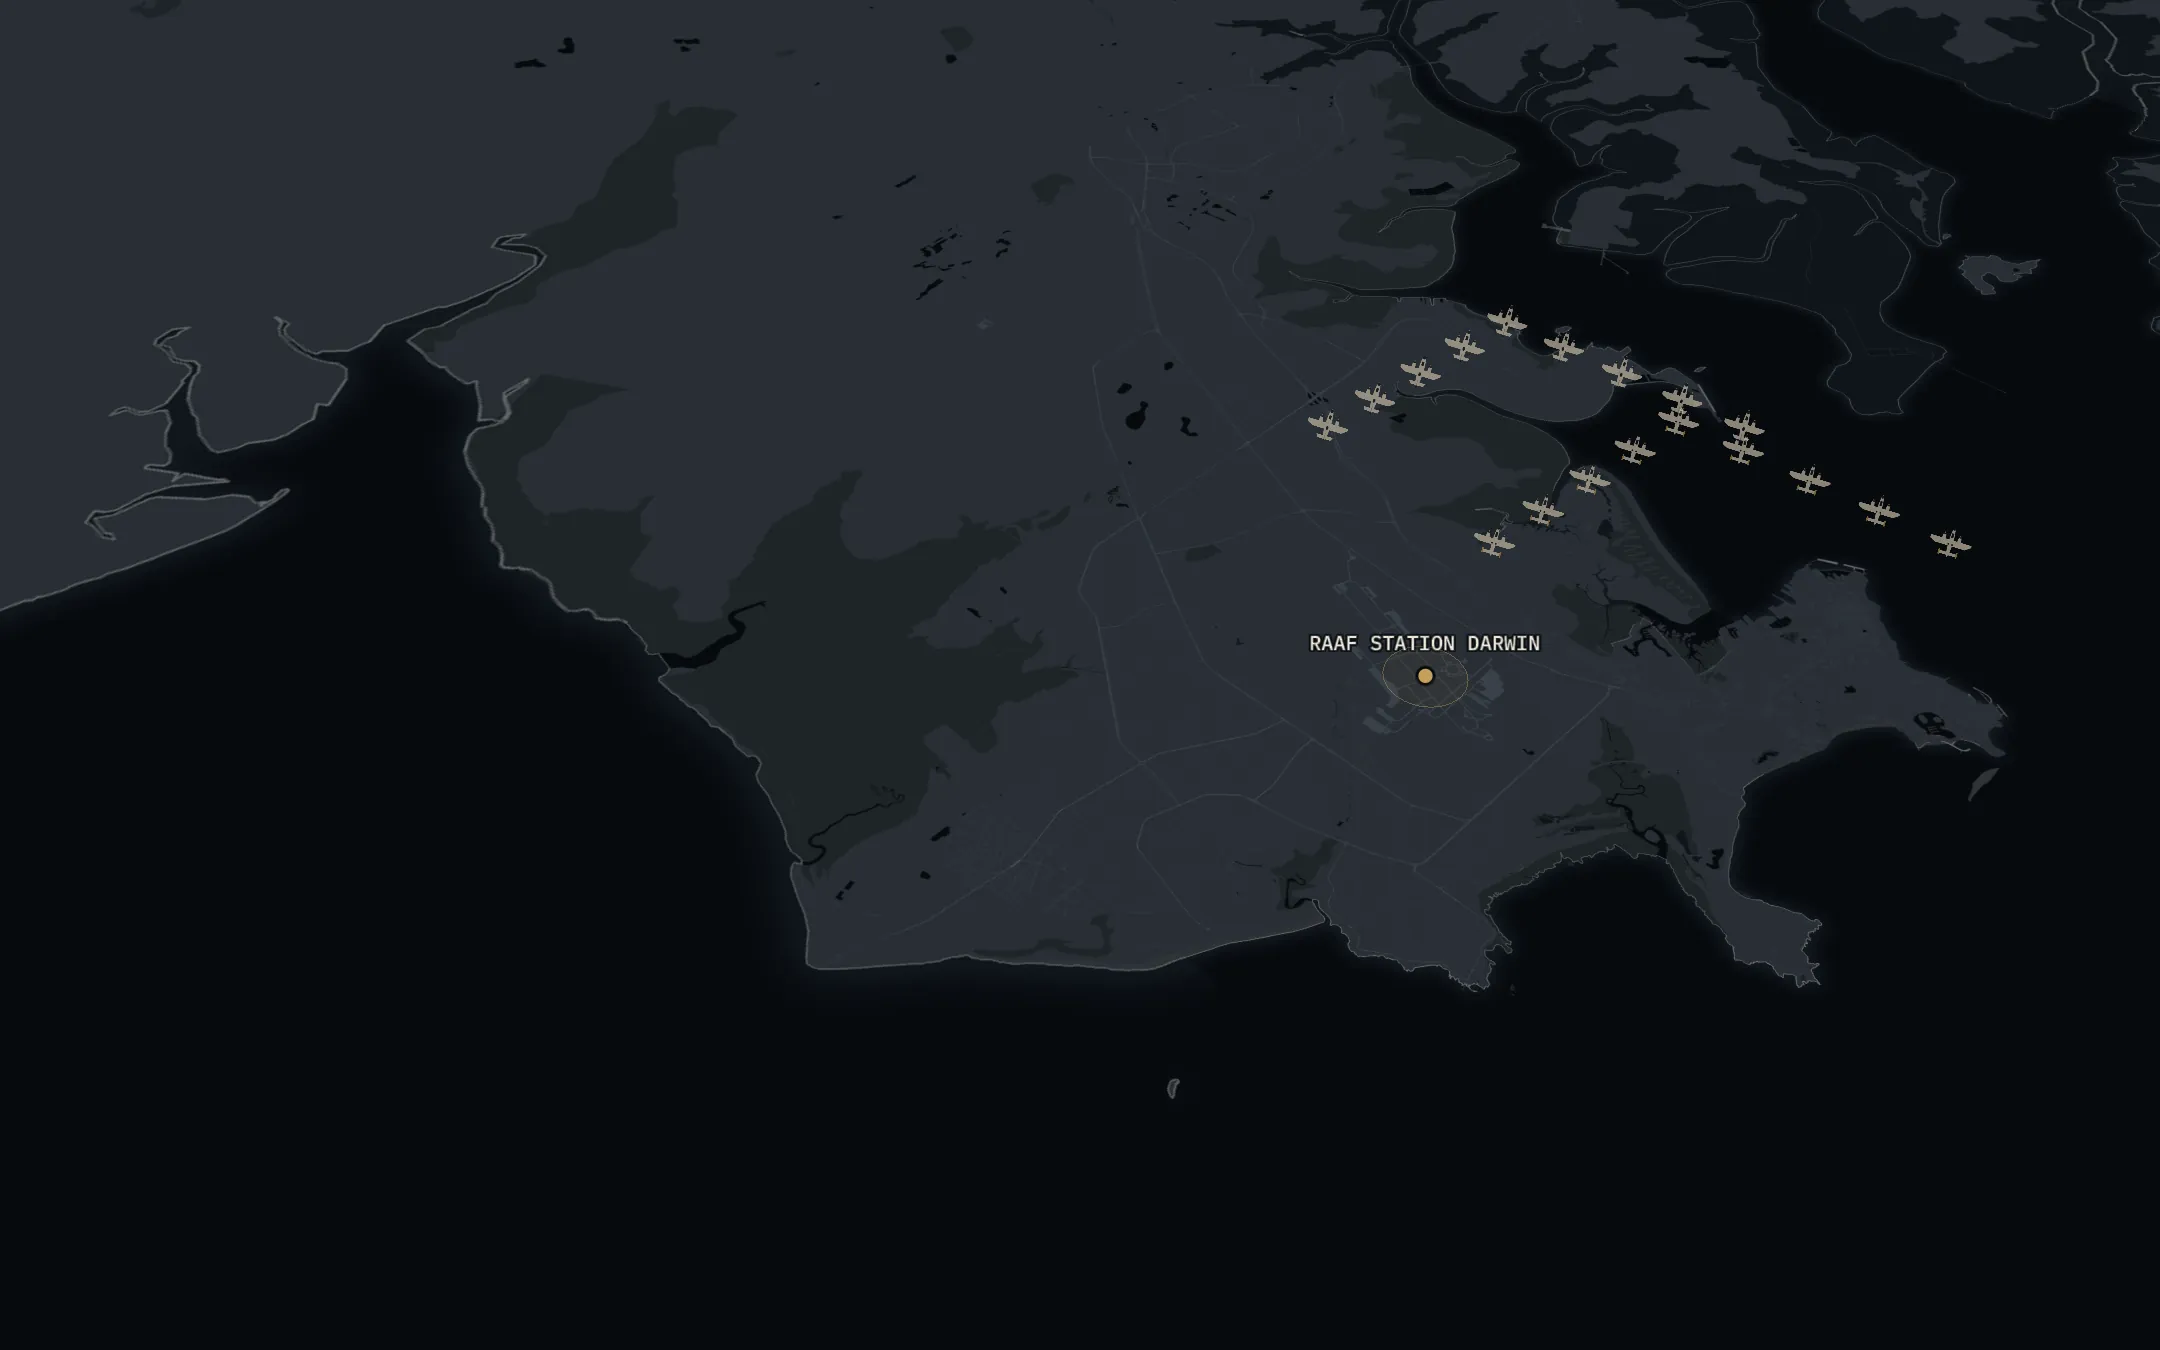
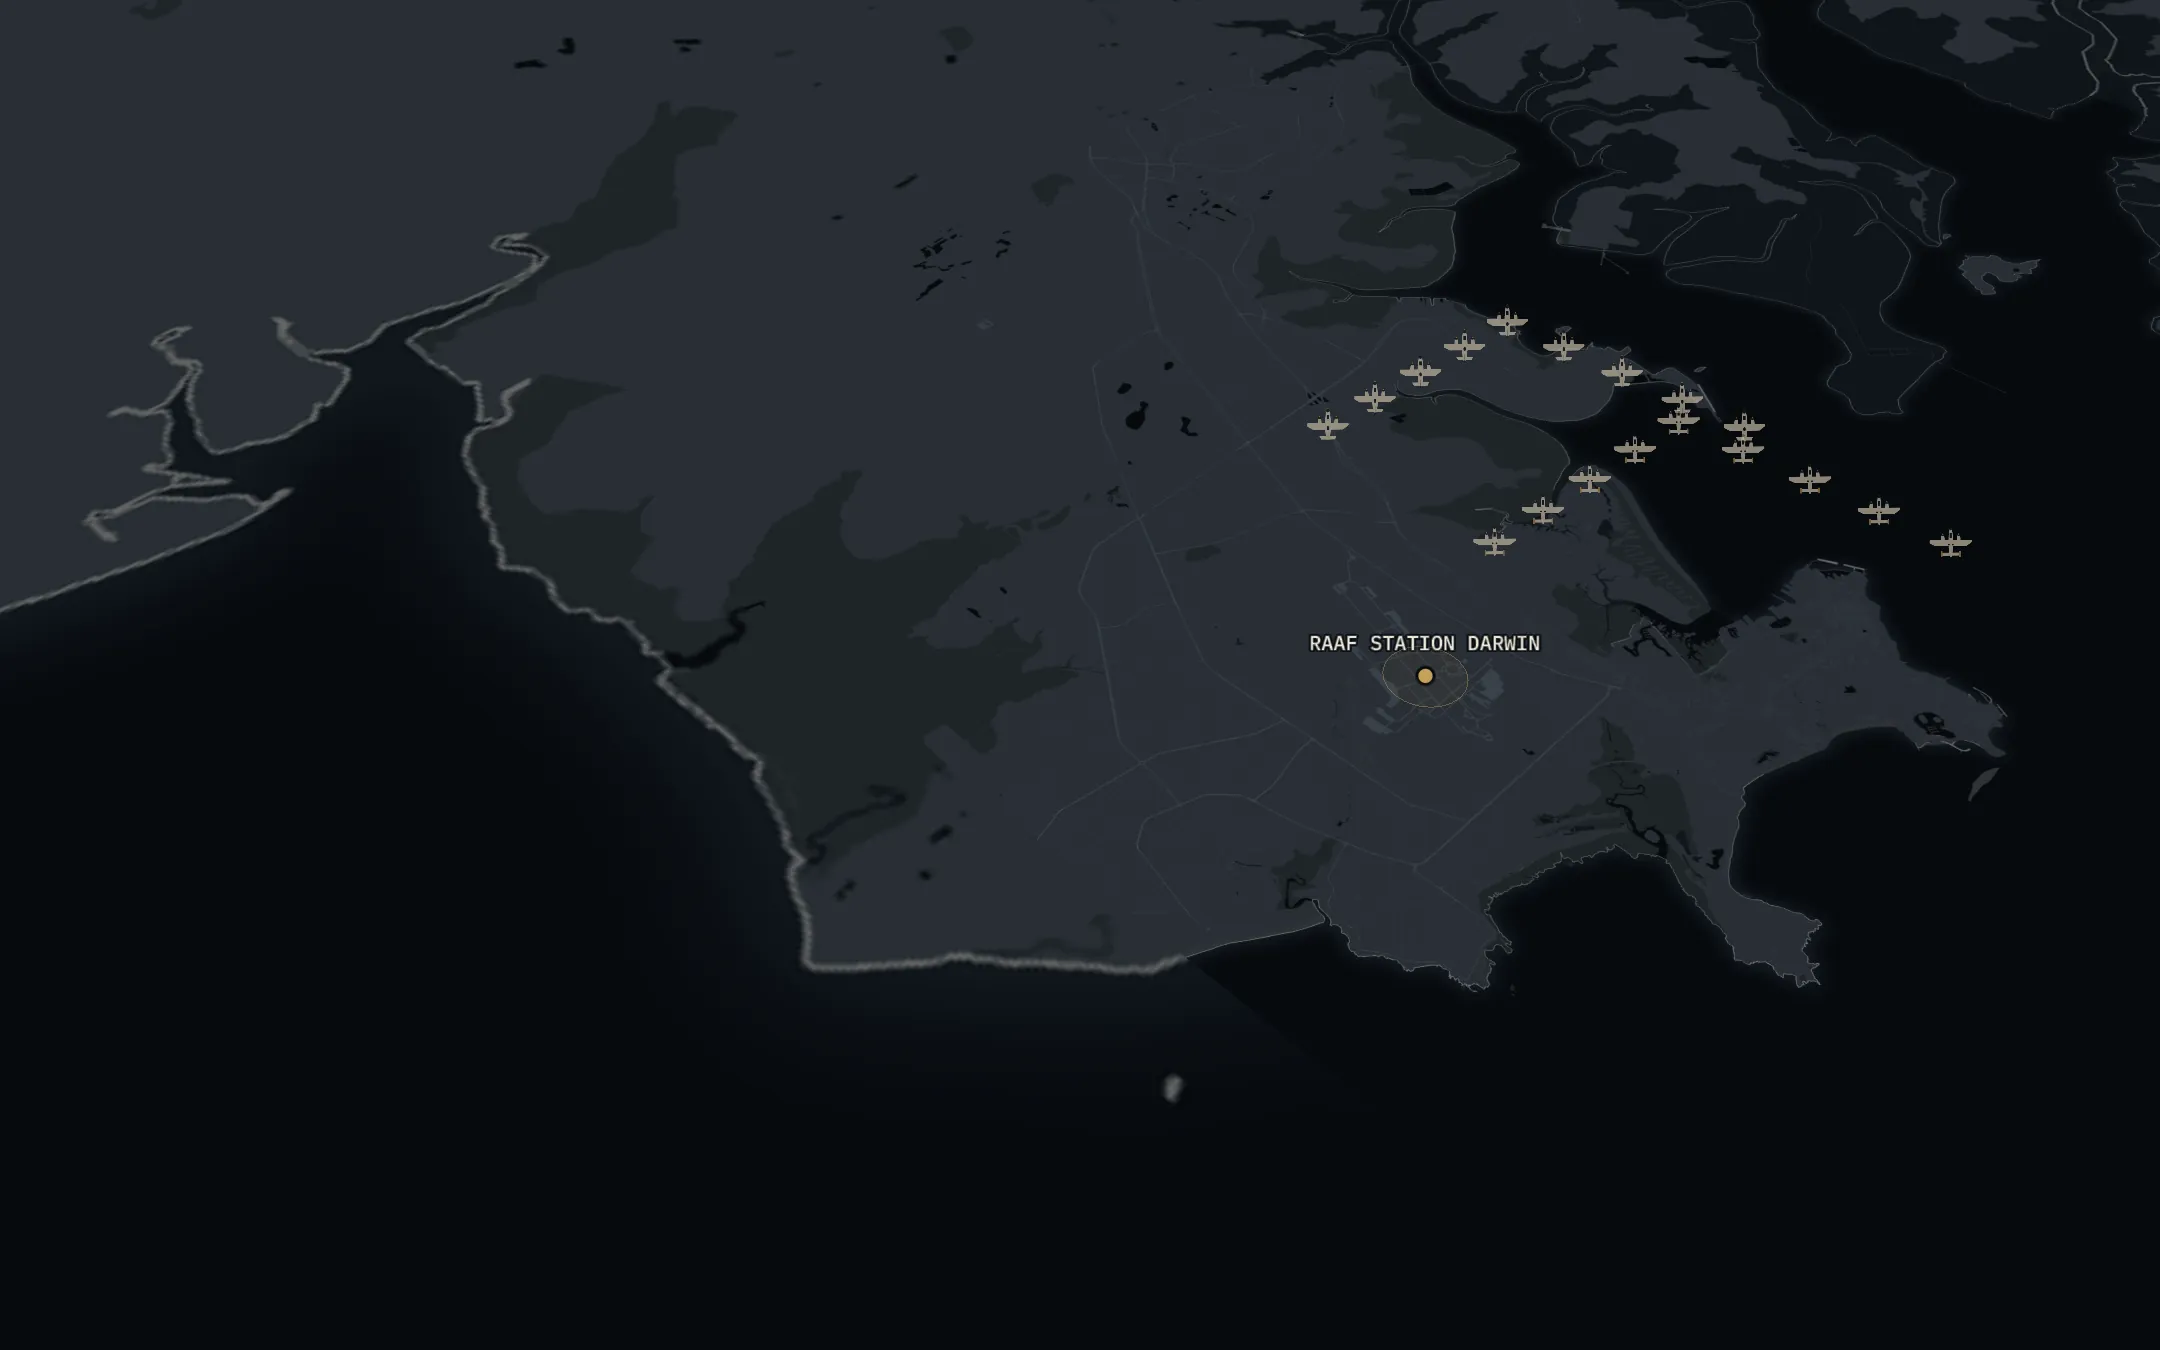
Aircraft headings: silhouettes aligned to ground travel direction; Zero model nose on +Z
- Billboards used a screen-space rotation from north, which drifted under the tilted camera
  (09:35 and 12:00 formations looked sideways). They now align their up axis with the
  heading vector in the local horizontal plane.
- The Zero model was exported nose +X; Cesium treats glTF +Z as forward, so it rendered
  90 degrees off at 09:58. Re-exported nose +Z; model URL versioned so caches refresh.
- Posters regenerated for 09:35, 09:58 and 12:00.

Claude-Session: https://claude.ai/code/session_01G83AnCBsyd7cktc8qLjyfR

diff --git a/src/lib/spatial/spatial-formation-controller.ts b/src/lib/spatial/spatial-formation-controller.ts
@@ -71,6 +71,16 @@ export class SpatialFormationController {
     }
   }
 
+  /** Unit vector (ECEF) pointing along a compass heading in the local horizontal plane. */
+  private travelAxis(lon: number, lat: number, alt: number, headingDeg: number): CesiumType.Cartesian3 {
+    const C = this.Cesium;
+    const enu = C.Transforms.eastNorthUpToFixedFrame(C.Cartesian3.fromDegrees(lon, lat, alt));
+    const h = C.Math.toRadians(headingDeg);
+    const local = new C.Cartesian3(Math.sin(h), Math.cos(h), 0);
+    const world = C.Matrix4.multiplyByPointAsVector(enu, local, new C.Cartesian3());
+    return C.Cartesian3.normalize(world, world);
+  }
+
   public initialize(): void {
     this.buildBeat0Formations();
     this.buildBeat1Formations();
@@ -153,8 +163,10 @@ export class SpatialFormationController {
           height: size,
           // Muted bone tint: representative formation, not a bright game sprite.
           color: Cesium.Color.fromCssColorString('rgba(206, 199, 186, 0.72)'),
-          alignedAxis: Cesium.Cartesian3.UNIT_Z,
-          rotation: -Cesium.Math.toRadians(heading),
+          // Artwork is nose-up; aligning "up" with the ground direction of travel keeps the
+          // on-screen heading correct under any camera tilt.
+          alignedAxis: this.travelAxis(d.targetLon, d.targetLat, d.altitudeM, heading),
+          rotation: 0,
           scaleByDistance: new Cesium.NearFarScalar(5e4, 1.25, 3e6, 0.7),
         },
         show: false,
@@ -325,11 +337,12 @@ export class SpatialFormationController {
               // until type-accurate models exist.
               orientation: Cesium.Transforms.headingPitchRollQuaternion(
                 Cesium.Cartesian3.fromDegrees(d.targetLon, d.targetLat, d.altitudeM),
-                // Model nose is +X (east at heading 0); compass heading H → Cesium heading H − 90°.
+                // Model nose is glTF +Z (the glTF/Cesium forward axis), which Cesium places at local
+                // east for heading 0; compass heading H → Cesium heading H − 90°.
                 new Cesium.HeadingPitchRoll(Cesium.Math.toRadians(heading - 90), Cesium.Math.toRadians(-4), Cesium.Math.toRadians(d.id.endsWith('1') ? 14 : -10))
               ),
               model: {
-                uri: '/models/a6m2-zero.glb',
+                uri: '/models/a6m2-zero.glb?v=64384f0a06',
                 minimumPixelSize: 54,
                 maximumScale: 600,
                 color: Cesium.Color.fromCssColorString('rgb(214, 207, 194)'),
@@ -345,8 +358,8 @@ export class SpatialFormationController {
                 height: size,
                 // Muted bone tint: representative formation, not a bright game sprite.
                 color: Cesium.Color.fromCssColorString('rgba(206, 199, 186, 0.78)'),
-                alignedAxis: Cesium.Cartesian3.UNIT_Z,
-                rotation: -Cesium.Math.toRadians(heading),
+                alignedAxis: this.travelAxis(d.targetLon, d.targetLat, d.altitudeM, heading),
+                rotation: 0,
                 scaleByDistance: new Cesium.NearFarScalar(2e3, 1.15, 5e4, 0.6),
               },
             }),
@@ -467,8 +480,10 @@ export class SpatialFormationController {
           width: 36,
           height: 36,
           color: Cesium.Color.fromCssColorString('rgba(206, 199, 186, 0.72)'),
-          alignedAxis: Cesium.Cartesian3.UNIT_Z,
-          rotation: -Cesium.Math.toRadians(heading),
+          // Artwork is nose-up; aligning "up" with the ground direction of travel keeps the
+          // on-screen heading correct under any camera tilt.
+          alignedAxis: this.travelAxis(d.targetLon, d.targetLat, d.altitudeM, heading),
+          rotation: 0,
           scaleByDistance: new Cesium.NearFarScalar(5e3, 1.1, 2.5e5, 0.65),
         },
         show: false,

diff --git a/CLAUDE.md b/CLAUDE.md
@@ -38,7 +38,7 @@ meaningful checkpoint. Do not create parallel status/plan documents.
   Vite reload mid-run kills the capture. Tile lists are incremental (tiles newly requested when
   the visitor reaches beat N in story order), which is what "prefetch the next beat" needs.
   Posters are canvas read-backs; a blank (black) read-back aborts the run.
-- 3D models live in `public/models/` (glTF, real-world metres, nose +X). `a6m2-zero.glb` is the
+- 3D models live in `public/models/` (glTF, real-world metres, nose +Z = glTF/Cesium forward axis; Cesium heading = compass − 90°). Model URLs carry `?v=<hash>`; update it when the file changes. `a6m2-zero.glb` is the
   owner-supplied Zero with its AI texture and markings removed (inaccurate for Feb 1942), span
   corrected to 12.0 m, simplified to ~3k triangles, meshopt-compressed. Only use a model for the
   type it depicts; other types stay as silhouettes until type-accurate models exist.

diff --git a/docs/SHIP_STATUS.md b/docs/SHIP_STATUS.md
@@ -116,7 +116,7 @@ visitor-facing feature; SS Barossa canon correction.
 **A6M2 Zero model** (`public/models/a6m2-zero.glb`, 16.7 KB): owner-supplied model (generated with
 Tripo). Geometry kept; texture removed because its paint (dark green uppers, yellow leading-edge
 strips) is later-war and its national markings were garbled; outer wing span corrected 1.17 → 1.32 ×
-length (A6M2: 12.0 m / 9.06 m); real-world metres, nose +X; simplified 10.4k → 3.1k triangles;
+length (A6M2: 12.0 m / 9.06 m); real-world metres, nose +Z (glTF forward; first export used +X, which Cesium rendered 90° off — fixed 25 Oct); simplified 10.4k → 3.1k triangles;
 meshopt-compressed (was 870 KB). Rendered in muted bone, minimum 54 px (symbol size, not a scale claim).
 
 **Canon correction — SS_BAROSSA** (`data/entities/vessels.json`, sources added to `sources.json`):
